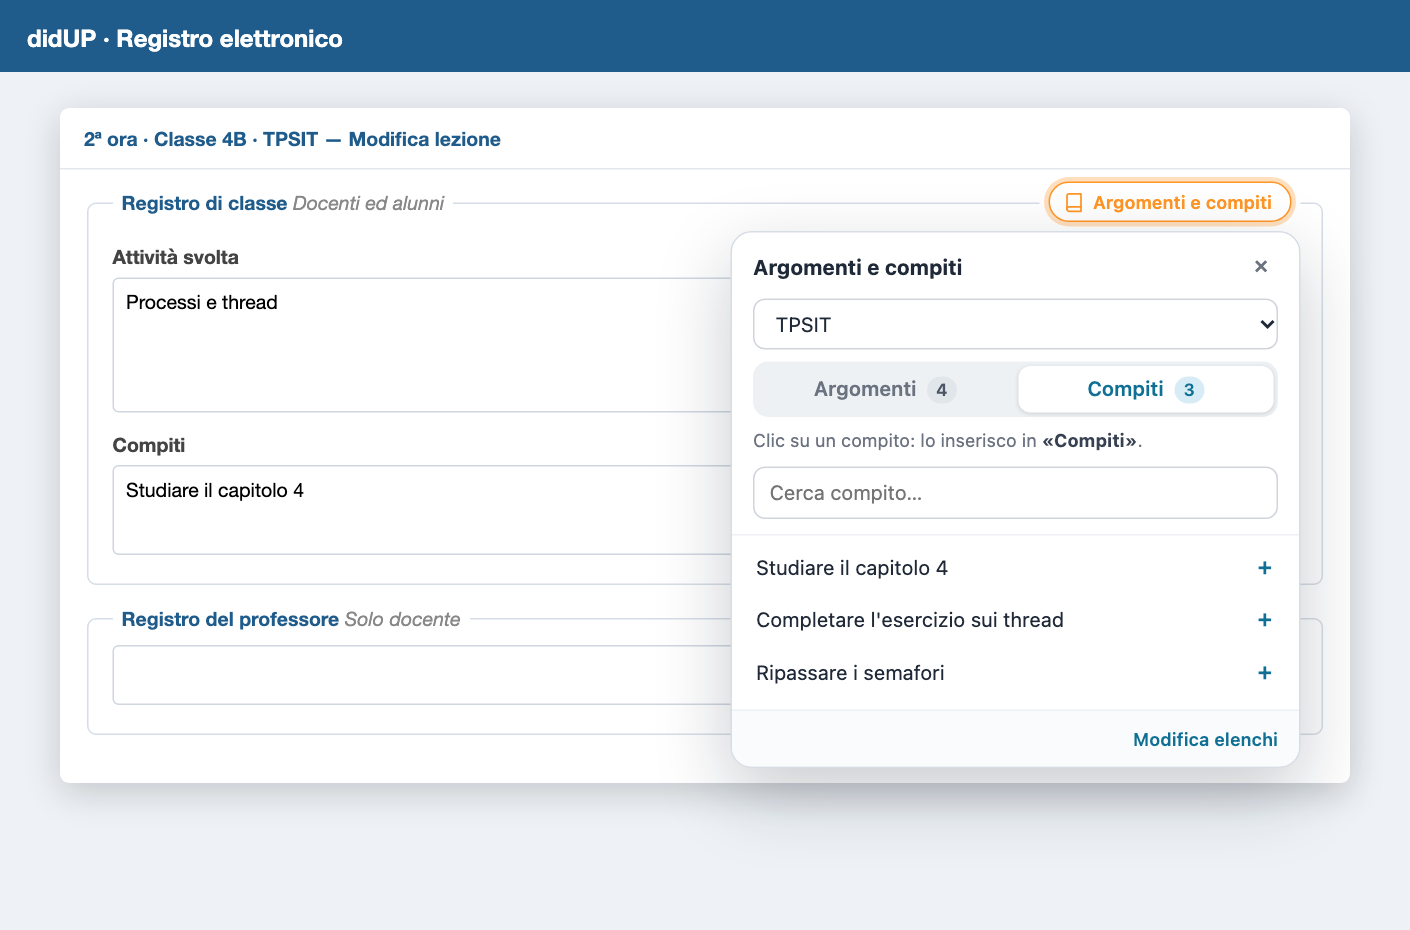
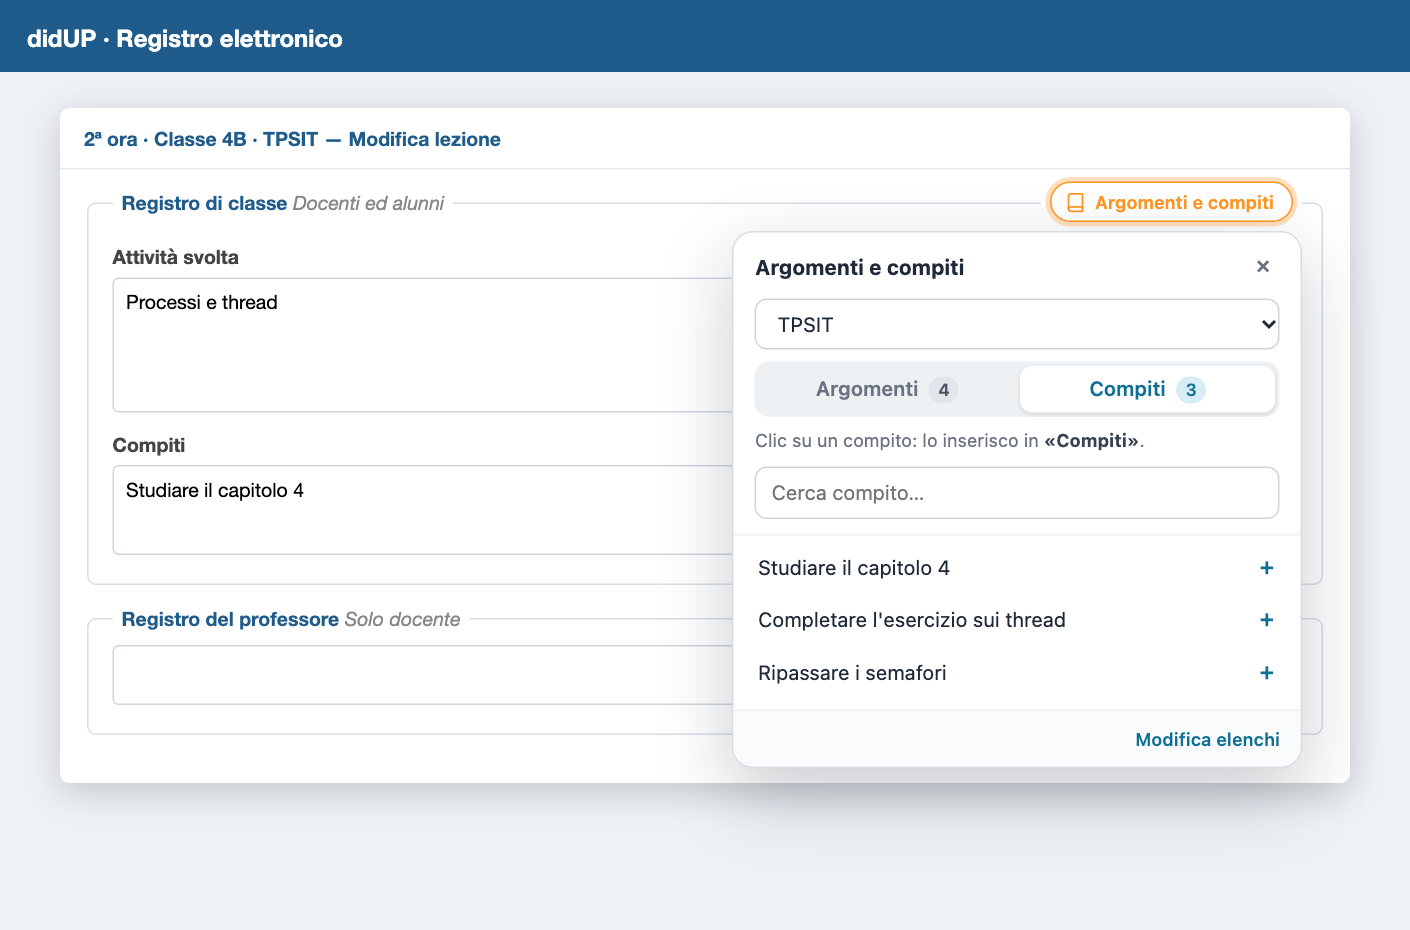
Fixed popup dismiss and Argomenti e Compiti visibility

diff --git a/argomenti.js b/argomenti.js
@@ -135,27 +135,44 @@
   }
 
   // A destra, centrato sulla riga del titolo (la legenda del riquadro).
+  // Il pulsante NON sta dentro il riquadro: in DidUP «.x-fieldset» ha
+  // overflow:hidden e la legenda è nella zona del bordo, quindi verrebbe
+  // tagliato via. Sta subito dopo il riquadro, nello stesso contenitore, in
+  // posizione assoluta: si misura dove finisce a 0,0 e si corregge.
   function positionButton(host) {
     const { title, fieldset } = host.__argo || {};
-    if (!title || !fieldset || !title.isConnected) return;
-    if (getComputedStyle(fieldset).position === 'static') fieldset.style.position = 'relative';
+    if (!fieldset || !fieldset.isConnected) {          // riquadro tolto da Ext: il pulsante non serve più
+      if (picker && picker.anchor === host) closePicker();
+      host.remove();
+      return;
+    }
+    if (!title || !title.isConnected) return;
     const legend = title.closest('legend, .x-fieldset-header') || title;
-    // Si misura dove finisce con top:0 e si corregge: l'origine di un elemento
-    // assoluto dentro un <fieldset> dipende da come il browser dispone la legenda.
+    const fr = fieldset.getBoundingClientRect();
+    const lr = legend.getBoundingClientRect();
+    if (fr.width === 0 && fr.height === 0) { host.style.visibility = 'hidden'; return; }   // scheda nascosta
+    host.style.visibility = '';
+    host.style.left = '0px';
     host.style.top = '0px';
     const zero = host.getBoundingClientRect();
-    const lr = legend.getBoundingClientRect();
-    host.style.top = `${Math.round(lr.top + lr.height / 2 - zero.height / 2 - zero.top)}px`;
+    const left = fr.right - 14 - zero.width - zero.left;
+    const top = lr.top + lr.height / 2 - zero.height / 2 - zero.top;
+    host.style.left = `${Math.round(left)}px`;
+    host.style.top = `${Math.round(Math.max(0, top))}px`;
     host.style.background = backgroundOf(fieldset);
   }
 
   function injectButton(title) {
     const fieldset = fieldsetOf(title) || title.parentElement;
-    const existing = fieldset.querySelector(`:scope > [${HOST_ATTR}="button"]`);
-    if (existing) { positionButton(existing); return existing; }
+    const next = fieldset.nextElementSibling;
+    if (next && next.getAttribute(HOST_ATTR) === 'button') {
+      next.__argo = { title, fieldset };      // Ext può aver ridisegnato il titolo
+      positionButton(next);
+      return next;
+    }
     const host = document.createElement('span');
     host.setAttribute(HOST_ATTR, 'button');
-    host.style.cssText = 'position:absolute;right:14px;top:0;z-index:1;display:inline-block;padding:0 6px;line-height:0;';
+    host.style.cssText = 'position:absolute;left:0;top:0;z-index:2;display:block;padding:0 6px;line-height:0;margin:0;';
     host.__argo = { title, fieldset };
     const root = host.attachShadow({ mode: 'open' });
     // Stesso stile dei pulsanti «Firma ora» / «Appello» (impostazioni → Pulsanti nel registro).
@@ -175,7 +192,8 @@
       if (picker && picker.anchor === host) closePicker();
       else openPicker(host, btn, fieldsetOf(title));
     });
-    fieldset.appendChild(host);
+    // (nessuno stile cambiato sui contenitori di Ext: la posizione si corregge misurando)
+    fieldset.after(host);
     positionButton(host);
     return host;
   }
@@ -549,7 +567,10 @@
     settings = s;
     if (!isArgoPortalUrl(location.href) && !isArgoDashboardUrl(location.href, s)) return;
     observer.observe(document.documentElement, { childList: true, subtree: true });
-    window.addEventListener('resize', () => document.querySelectorAll(`span[${HOST_ATTR}="button"]`).forEach(positionButton));
+    // Ext ridispone le finestre senza aggiungere nodi (es. ridimensionamento): si riallinea spesso, costa poco.
+    const realign = () => document.querySelectorAll(`span[${HOST_ATTR}="button"]`).forEach(positionButton);
+    window.addEventListener('resize', realign);
+    const realignTimer = setInterval(() => { if (!isCurrent()) clearInterval(realignTimer); else realign(); }, 700);
     scan();
   }).catch(err => console.warn('[Argo DidUP Booster] Argomenti:', err));
 })();

diff --git a/toolbar.js b/toolbar.js
@@ -179,11 +179,15 @@
   const panel = (() => {
     let host = null, root = null, pendingAsk = null, dismissed = false;
     const $ = sel => root.querySelector(sel);
+    // Visibilità con style.display: l'attributo hidden sull'host non basta,
+    // perché «:host { all: initial }» del pannello lo annulla.
+    const isVisible = () => Boolean(host && host.isConnected && host.style.display !== 'none');
+    const setVisible = on => { if (host) host.style.display = on ? '' : 'none'; };
 
     // Clic fuori dal pannello (e fuori dai pulsanti): si chiude. Solo i clic
     // veri dell'utente: quelli che fa l'estensione nel registro non contano.
     function onOutside(e) {
-      if (!e.isTrusted || !host || host.hidden) return;
+      if (!e.isTrusted || !isVisible()) return;
       const path = e.composedPath();
       if (path.includes(host) || (bar && path.includes(bar.host))) return;
       if (path.some(n => n && n.getAttribute && n.getAttribute(ATTR) === 'guide')) return;
@@ -270,16 +274,16 @@
       $('.askbox').hidden = true;
       $('.result').hidden = true;
       setState('running');
-      host.hidden = false;
+      setVisible(true);
       dismissed = false;
       position();
     }
 
-    function show() { if (host) { host.hidden = false; dismissed = false; position(); } }
+    function show() { if (host) { setVisible(true); dismissed = false; position(); } }
 
     function close() {
       if (!host) return;
-      host.hidden = true;
+      setVisible(false);
       dismissed = true;
       // Pannello chiuso durante una domanda: vale come «no».
       if (pendingAsk) pendingAsk(false);
@@ -335,7 +339,7 @@
       if (!dismissed || !result.ok) show();
     }
 
-    const isOpen = () => Boolean(host && host.isConnected && !host.hidden);
+    const isOpen = isVisible;
     return { open, show, close, addStep, ask, done, position, isOpen };
   })();
 

diff --git a/tests/mock/didup-mock.html b/tests/mock/didup-mock.html
@@ -21,6 +21,7 @@
   table.x-grid-item { width: 100%; border-collapse: collapse; } td.x-grid-cell { border: 1px solid #eee; padding: 4px 8px; }
   .base-registri-menu-button { display: inline-block; padding: 8px 12px; border: 1px solid #ccc; margin: 2px; cursor: pointer; }
   .x-btn-disabled { opacity: .4; }
+  .x-fieldset{display:block;position:relative;overflow:hidden} .x-fieldset-header{overflow:hidden} .x-fieldset-header-text{float:left}
   .x-message-box { position: fixed; top: 100px; left: 300px; background: #fff; border: 2px solid #c00; padding: 20px; }
 </style></head>
 <body>

diff --git a/CLAUDE.md b/CLAUDE.md
@@ -25,7 +25,7 @@ Il 5/11/2026 la cartella è stata spostata da `ArgoDidUP-Extension` a `argo_didu
 - **Pubblico.** Docenti italiani di qualunque scuola. Niente dati di una scuola specifica nel codice: l'estensione originale era scritta per l'ITT Buzzi (codice `SG18328`), poi è stata resa generica. Il codice `SG18328` (pubblico) si usa solo nei test.
 - **Nome: «Argo DidUP Booster»** (fino alla 2.6 si chiamava «ArgoDidUP Assistant» / «Argo Assistant»). Non rinominare la cartella: cambierebbe l'id dell'estensione e l'utente perderebbe le impostazioni.
 - **Identificatori interni.** Sono rimasti con il prefisso storico `argo-assistant` (`data-argo-assistant*`, eventi `argo-assistant:request:v4`, `dataset.argoAssistant*`, `__argoAssistant*`). Non si vedono e cambiarli lascerebbe doppioni nelle schede già aperte. Gli attributi nuovi della 1.2.0 usano `data-argo-booster-*` (`dataset.argoBooster*`).
-- **Versione attuale: 1.2.0.** La numerazione è ripartita da 1.0.0 con il cambio di nome (prima era 2.6). **Alzare `version` in `manifest.json` a ogni modifica del codice** (`MAJOR.MINOR.PATCH`): la ricarica automatica scatta quando la versione su disco è *diversa* da quella caricata, quindi va bene anche il passaggio 2.6 → 1.0.0. Il workflow di rilascio controlla che il tag corrisponda a questa versione.
+- **Versione attuale: 1.2.1.** La numerazione è ripartita da 1.0.0 con il cambio di nome (prima era 2.6). **Alzare `version` in `manifest.json` a ogni modifica del codice** (`MAJOR.MINOR.PATCH`): la ricarica automatica scatta quando la versione su disco è *diversa* da quella caricata, quindi va bene anche il passaggio 2.6 → 1.0.0. Il workflow di rilascio controlla che il tag corrisponda a questa versione.
 - **File tolti.** Stanno nella cartella sorella `/Applications/Google Chrome Extensions/argo_didup_booster - file rimossi/`:
   - `1.1.0/`: popup (`popup.html`, `popup.js`), `style.css`, `keepalive.js` e le immagini del popup;
   - `build-info.json` e `tools/` (hook git della sezione Informazioni, tolti nella 1.0.1);
@@ -37,17 +37,17 @@ Il 5/11/2026 la cartella è stata spostata da `ArgoDidUP-Extension` a `argo_didu
 
 | File | Ruolo |
 |---|---|
-| `manifest.json` | MV3, versione 1.2.0. Permessi `storage`, `alarms`, `activeTab`, `scripting`, `clipboardWrite`; host `https://*.portaleargo.it/*`, `https://eid.istruzione.it/*`. **Nessun popup** (dalla 1.1.0): il clic sull'icona arriva sempre a `onClicked`. Content script su portaleargo: `page-bridge.js` (MAIN) e poi `settings.js`, `content-common.js`, `login.js`, `sessione.js`, `argomenti.js`, `azioni.js`, `toolbar.js`. |
+| `manifest.json` | MV3, versione 1.2.1. Permessi `storage`, `alarms`, `activeTab`, `scripting`, `clipboardWrite`; host `https://*.portaleargo.it/*`, `https://eid.istruzione.it/*`. **Nessun popup** (dalla 1.1.0): il clic sull'icona arriva sempre a `onClicked`. Content script su portaleargo: `page-bridge.js` (MAIN) e poi `settings.js`, `content-common.js`, `login.js`, `sessione.js`, `argomenti.js`, `azioni.js`, `toolbar.js`. |
 | `settings.js` | Modulo condiviso da service worker, impostazioni e content script (variabili `var` di primo livello, così si può reiniettare). Contiene: `REPO_URL`, `DEFAULT_SETTINGS`, `SPID_PROVIDERS` (12 id), validazione ed import/export (`sanitizeSettings`: le chiavi booleane `autoLogin`, `ricordami`, `keepAliveEnabled`, `showFirma`, `showAppello`, `showArgomenti`, `guidaPulsanti`, `guidaArgomenti`), riconoscimento degli URL (`isArgoDashboardUrl` = percorso `/voti*`), `loginFlow`, `reloadIfStale()`, costanti del mantenimento (`KEEPALIVE_IDLE_MIN=10`, `KEEPALIVE_IDLE_MIN_FLOOR=3`, `KEEPALIVE_EXPIRED_IDLE_SEC=60`, `KEEPALIVE_EXPIRED_RETRY_MIN=5`), aspetto dei pulsanti (`BUTTON_POSITIONS`, `BUTTON_THEMES` con variabili CSS `--b-*` — il primo, `argo`, è il predefinito —, `buttonThemeCss()`, `BOOSTER_ICONS`, `BOOSTER_ACTIONS` con la chiave `setting` di ognuno, `enabledActions(settings)`, `BOOSTER_BUTTON_SIZE=34`, `boosterButtonsCss()`, `boosterPillCss()`, `boosterButtonHtml()`: gli stessi nel registro e nell'anteprima delle impostazioni). |
 | `background.js` | Service worker: badge "!" se manca il codice, clic sull'icona (`handleIconClick`), `goToRegistro()`, controllo della sessione nelle schede aperte (`probeDidupSession`), **mantenimento della sessione** (`chrome.alarms` ogni minuto → `keepAliveTick` → `sessionInPage` nel mondo MAIN → eventuale `chrome.tabs.reload`), iniezione degli script dopo un aggiornamento, `clearPopups()` (toglie i popup per scheda delle versioni ≤ 1.0), ripresa dopo la ricarica automatica. |
 | `sessione.js` | Content script (dalla 1.2.0): annota l'ora di caricamento della pagina (`<html data-argo-booster-loaded-at>`, non sovrascritta se lo script viene reiniettato) e dell'ultimo uso (`data-argo-booster-activity`: `pointerdown`, `keydown`, `wheel`, `touchstart`, `mousemove`, `input` solo se `isTrusted`, `hashchange`, `popstate`, scheda tornata visibile; al massimo una scrittura ogni 3 s). Gli attributi del DOM si leggono anche dal mondo MAIN, dove gira `sessionInPage`. Nessun dato su cosa si clicca o si scrive. |
-| `toolbar.js` | Pulsanti rotondi **Firma ora** / **Appello** nella barra in alto di DidUP (elemento `position:fixed` sopra la barra, non dentro il layout Ext; z-index 10000, sotto le finestre Ext). Solo quelli attivi (`enabledActions`); se nessuno è attivo la barra non si mostra; la barra si ricrea quando cambiano `showFirma`/`showAppello`. Posizione ricalcolata ogni 600 ms: a destra prima del gruppo aiuto/profilo (bordo sinistro dell'**immagine** dell'aiuto, distanza 12 px), al centro, a sinistra dopo il testo di `#intestazioneId`; in verticale **centrati sull'immagine dell'aiuto** (`img[src*=help]`), non sulla barra; se la barra è nascosta, in basso a destra. Pannello dei passi (`[data-argo-assistant="run"]`) con domanda Sì/No (chiusura, clic fuori o 2 minuti = no); **si chiude con un clic fuori** (solo eventi `isTrusted`; i clic sui pulsanti della barra e sulla guida non contano); se è stato chiuso mentre lavorava, a fine azione si riapre solo in caso di errore. Durante un'azione imposta `<html data-argo-booster-busy>` (il mantenimento non ricarica). **Guida della prima volta** (`guidaPulsanti`): quando la barra è visibile e ferma da ~2,4 s, la scheda è visibile e non ci sono maschere o finestre Ext; passi: barra, Firma ora, Appello (solo quelli attivi), impostazioni. Avviso «Sessione scaduta» con «Ricarica ora» (`location.reload()`) e «Più tardi». |
+| `toolbar.js` | Pulsanti rotondi **Firma ora** / **Appello** nella barra in alto di DidUP (elemento `position:fixed` sopra la barra, non dentro il layout Ext; z-index 10000, sotto le finestre Ext). Solo quelli attivi (`enabledActions`); se nessuno è attivo la barra non si mostra; la barra si ricrea quando cambiano `showFirma`/`showAppello`. Posizione ricalcolata ogni 600 ms: a destra prima del gruppo aiuto/profilo (bordo sinistro dell'**immagine** dell'aiuto, distanza 12 px), al centro, a sinistra dopo il testo di `#intestazioneId`; in verticale **centrati sull'immagine dell'aiuto** (`img[src*=help]`), non sulla barra; se la barra è nascosta, in basso a destra. Pannello dei passi (`[data-argo-assistant="run"]`) con domanda Sì/No (chiusura, clic fuori o 2 minuti = no); **si chiude con un clic fuori o con la ×** (visibilità con `host.style.display`, **non** con l'attributo `hidden`: lo annulla `:host { all: initial }` dello shadow DOM, ed è il difetto della 1.2.0 sul registro vero; solo eventi `isTrusted`; i clic sui pulsanti della barra e sulla guida non contano); se è stato chiuso mentre lavorava, a fine azione si riapre solo in caso di errore. Durante un'azione imposta `<html data-argo-booster-busy>` (il mantenimento non ricarica). **Guida della prima volta** (`guidaPulsanti`): quando la barra è visibile e ferma da ~2,4 s, la scheda è visibile e non ci sono maschere o finestre Ext; passi: barra, Firma ora, Appello (solo quelli attivi), impostazioni. Avviso «Sessione scaduta» con «Ricarica ora» (`location.reload()`) e «Più tardi». |
 | `options.html/js/css` | Impostazioni, salvate a ogni modifica: link **GitHub** in cima (e in fondo alla pagina), scuola e accesso (con l'interruttore «Ricordami»), sessione (solo on/off + stato dettagliato e scadenze osservate), **funzioni nel registro** (`#sec-funzioni`: interruttori `showFirma`, `showAppello`, `showArgomenti` con l'icona del pulsante vero; caselle `guidaPulsanti`, `guidaArgomenti`, aggiornate anche quando le spegne la pagina del registro), **aspetto dei pulsanti** (`#sec-pulsanti`: posizione, 6 stili, anteprima con i pulsanti veri in shadow DOM che mostra solo le funzioni attive), discipline con due elenchi ordinabili (schede "Argomenti" e "Compiti", `currentKind`), export/import JSON (`argo-didup-booster-impostazioni-AAAA-MM-GG.json`), URL avanzati. La **versione** (dal manifest) è nella barra in cima (`#info-version`). |
 | `page-bridge.js` | Script nel **mondo MAIN**: unico punto (oltre alle funzioni che il service worker esegue con `executeScript`) che usa gli oggetti di DidUP (Ext JS). Canale versionato `argo-assistant:request:v4` / `response:v4`. Funzioni: `session`, `ping`, `info`, `fields`, `insert`, `dashboardLessons`, `registroLessons` (righe con `index`, `docente`, `mia`, più `utente`), `utente`, `goHome`, `viewVisible`. Non cambiato nella 1.2.0. |
 | `content-common.js` | `callPageBridge()`, `waitForElement()`, `assistantToast` (shadow DOM; `actions`, `onDismiss`), `PAGE_BRIDGE_CHANNEL='v4'`, **`assistantGuide`** (dalla 1.2.0: `show(steps)` con `steps = [{ target: () => Element, title, text, round, action: { label, onClick } }]`; host `[data-argo-assistant="guide"]` a tutto schermo, z-index 2147483600; riquadro illuminato con `box-shadow: 0 0 0 200vmax rgba(15,23,42,.68)`; Avanti/Indietro/«Ho capito», «Salta la guida», Esc, frecce; blocca clic e tasti verso DidUP; `isOpen()`, `close()`). |
 | `login.js` | Pagine Argo: compila `#customer_code`, **spunta «Ricordami»** (`applyRicordami`: `#shared_remember_me.checked = true` senza cliccare, così non si apre la finestra informativa `#ssoModal`; mette anche `#spid_remember_me = "true"`) e preme `a.button-spid`; lo spunta anche quando l'utente preme SPID a mano (listener in cattura sul pulsante, prima dell'`onclick` di Argo); sceglie il profilo (`.selectable-identity`); chiude `loginFlow` quando il registro ha le credenziali; anti-ripetizione di 90 s con "Riprova". |
 | `eid.js` | `eid.istruzione.it/eid-gateway`: provider `a[href*="/sp/idps/spid/<id>/"]` (l'ordine in pagina cambia ogni volta) oppure CIE `a[href*="/sp/idps/cie/"]`. Agisce solo se `loginFlow.stage==='eid'`. |
-| `argomenti.js` | Pulsante "Argomenti e compiti" nella sezione "Registro di classe · Docenti ed alunni" della schermata di modifica lezione. Dalla 1.2.0 è **allineato a destra sulla riga del titolo**: l'host sta dentro il `fieldset` (`position:absolute; right:14px`, il fieldset diventa `position:relative` se era `static`), centrato sulla `legend` misurando e correggendo la posizione (l'origine di un elemento assoluto dentro un `fieldset` dipende dalla legenda), con lo sfondo del riquadro dietro (copre la linea del bordo). Il pannello si apre allineato al bordo destro del pulsante. Si toglie con `showArgomenti`. **Guida della prima volta** (`guidaArgomenti`) sul pulsante, 700 ms dopo che compare. Il pannello ha il menu delle discipline (solo i nomi) e le schede Argomenti/Compiti con i conteggi. Argomento → casella `desArgomento` ("Attività svolta"); compito → la casella `desCompiti`/`desCompiti2`/`desCompiti3` visibile (scheda aperta). Le caselle si riconoscono con `fields` dal campo collegato, **non dalla posizione**: la 2.5 le contava per posizione e prendeva anche la scheda "Compiti" nascosta, da cui "Compiti, Compiti" con uno che non funzionava. Inserimento tramite il ponte (`setValue` di Ext, separatore `\n`, massimo 500 caratteri). |
+| `argomenti.js` | Pulsante "Argomenti e compiti" nella sezione "Registro di classe · Docenti ed alunni" della schermata di modifica lezione. Dalla 1.2.0 è **allineato a destra sulla riga del titolo**. Dalla 1.2.1 l'host **non sta dentro il `fieldset`** ma subito dopo (`fieldset.after(host)`, stesso contenitore): in DidUP `.x-fieldset` ha `overflow:hidden` (voti-all.css) e la legenda sta nella zona del bordo, fuori dal padding box, quindi nella 1.2.0 il pulsante veniva tagliato via del tutto sul registro vero. È `position:absolute`; `positionButton` lo mette a 0,0, misura e corregge (bordo destro del riquadro − 14 px, centro della `legend`, mai sopra il contenitore), senza cambiare stili ai contenitori di Ext; si riallinea ogni 700 ms e al ridimensionamento; se il riquadro sparisce il pulsante viene tolto. Sfondo del riquadro dietro (copre la linea del bordo). Il pannello si apre allineato al bordo destro del pulsante. Si toglie con `showArgomenti`. **Guida della prima volta** (`guidaArgomenti`) sul pulsante, 700 ms dopo che compare. Il pannello ha il menu delle discipline (solo i nomi) e le schede Argomenti/Compiti con i conteggi. Argomento → casella `desArgomento` ("Attività svolta"); compito → la casella `desCompiti`/`desCompiti2`/`desCompiti3` visibile (scheda aperta). Le caselle si riconoscono con `fields` dal campo collegato, **non dalla posizione**: la 2.5 le contava per posizione e prendeva anche la scheda "Compiti" nascosta, da cui "Compiti, Compiti" con uno che non funzionava. Inserimento tramite il ponte (`setValue` di Ext, separatore `\n`, massimo 500 caratteri). |
 | `azioni.js` | Motore di **Firma ora** e **Appello** (`ArgoAzioni.esegui(action, onStep, { ask, docenteNome, now })`), avviato da `toolbar.js`. Riconosce la riga del docente (`assegnaRighe`, `sameName`). Non cambiato nella 1.2.0. |
 | `icon/` | `icon16/32/48/128.png` + `icon.svg`: l'icona originale (scuola bianca con bandierina su blu). L'utente preferisce questa: non cambiarla senza chiedere. |
 | `docs/img/` | Immagini del README: si rigenerano con `node tests/screenshots.mjs` (usa il DidUP finto con un fuso orario emulato in cui sono le 10). Dalla 1.2.0 anche `guida-pulsanti.png`, `guida-argomenti.png`, `impostazioni-funzioni.png`. |
@@ -208,6 +208,8 @@ Servono Node 20+ (provato con la 26) e Google Chrome. Tutto in `tests/`: profili
 - Google Chrome ignora `--load-extension`: l'estensione vera si carica con `--remote-debugging-pipe --enable-unsafe-extension-debugging` e CDP `Extensions.loadUnpacked` (`tests/lib/cdp-pipe.mjs`).
 - Per provare `chrome.runtime.reload()` serve la modalità sviluppatore: `enableDevMode()` da `chrome://extensions`.
 - I test con il finto `chrome.*` (`tests/mock/mock-chrome.js`, con `tabs.reload` registrato tra le chiamate; niente `storage.session`) girano nel mondo della pagina; `prepareMockExtension()` aggiunge il mock alle impostazioni. Il finto `executeScript` restituisce sempre `__executeScriptReply`.
+- **Visibilità nei test:** controllare quello che si vede (`getBoundingClientRect`, `elementFromPoint`), non attributi come `hidden`: nella 1.2.0 i test passavano mentre sul registro vero il pannello restava aperto. I DidUP finti includono le regole vere `.x-fieldset{position:relative;overflow:hidden}`, `.x-fieldset-header{overflow:hidden}`, `.x-fieldset-header-text{float:left}`.
+- Il CSS vero di DidUP si trova in `https://www.portaleargo.it/voti/classic.json` (elenco `css`): `classic/resources/voti-all.css` importa `voti-all_1.css` e `voti-all_2.css` (tema Ext), poi `resources/css/classic/{base,app,wsx,wsx-custom}.css`.
 - Nei test le guide della prima volta sono spente (`guidaPulsanti/guidaArgomenti: false`) tranne dove si provano: la guida blocca i clic veri sulla pagina.
 - Porte CDP fisse: 9337, 9338, 9341, 9343. In caso di crash `killOnExit` chiude Chrome.
 - `copyExtension()` esclude `tests`, `tools`, `docs`, `dist`, `.github`, i `.md` e i file di sistema.
@@ -252,6 +254,7 @@ Servono Node 20+ (provato con la 26) e Google Chrome. Tutto in `tests/`: profili
 | 1.0.1 | Versione in cima alle impostazioni; tolti commit e data (sezione Informazioni, `build-info.json`, `tools/` con gli hook git: spostati in `argo_didup_booster - file rimossi/`). Testo del codice scuola: «prima dell'accesso con SPID o CIE». README: installazione dallo zip dell'ultima release. |
 | 1.1.0 | **Firma**: nelle classi articolate e in compresenza firma la propria riga (docente collegato, nome e cognome, icona) e verifica nel registro le ore che la Home dà per firmate. **Sessione**: un solo meccanismo dal service worker (`chrome.alarms` ogni minuto, anche con la scheda in secondo piano) che rinnova il token OIDC prima della scadenza e fa il ping; tolti intervallo e "Ricarica la pagina". **Popup tolto**: l'icona porta ad Argo o alle impostazioni; Firma e Appello sono pulsanti rotondi nella barra di DidUP con scritta al passaggio del mouse, pannello dei passi, posizione e 6 stili con anteprima nelle impostazioni (stesso stile per «Argomenti e compiti»). Canale del ponte `v4`. Permesso `alarms`. |
 | 1.2.0 | **Sessione**: `login.js` spunta «Ricordami» (nuova impostazione `ricordami`, attiva) perché senza Argo rifiuta il rinnovo (`login_required`); il mantenimento ora **ricarica la pagina** dopo 10 minuti senza uso (conteggio di `sessione.js`, mai con una finestra di DidUP aperta), ricarica dopo 1 minuto se la sessione è scaduta, annota le scadenze e accorcia la soglia se il server chiude prima; tolti `signinSilent` dell'estensione, il ping e `relogin-tab`; testo «Mantieni attiva la sessione dopo l'accesso». **Pulsanti**: centrati sull'icona di aiuto (34 px), stile predefinito «Simil Argo» (bianco e arancione come l'aiuto) e primo nell'elenco, «Argomenti e compiti» a destra sulla riga del titolo, pannello dei passi che si chiude con un clic fuori. **Funzioni nel registro**: Firma ora, Appello e Argomenti e compiti si possono togliere. **Guide della prima volta** (sfondo scuro) per i pulsanti e per Argomenti e compiti, riattivabili dalle impostazioni. Link GitHub nelle impostazioni. **Rilascio automatico** con `.github/workflows/release.yml` (`argo_didup_booster-X.Y.Z.zip`). README e immagini aggiornati. |
+| 1.2.1 | Correzioni segnalate dall'utente sul registro vero: «Argomenti e compiti» non compariva (tagliato dall'`overflow:hidden` di `.x-fieldset`: ora il pulsante sta dopo il riquadro, non dentro); il pannello di Firma/Appello non si chiudeva né con la × né con un clic fuori (l'attributo `hidden` sull'host era annullato da `:host { all: initial }`: ora `style.display`). I DidUP finti dei test hanno le regole di `.x-fieldset` del CSS vero e i test controllano la visibilità reale (`elementFromPoint`, dimensioni), non gli attributi. |
 
 ## Punti aperti (non verificati sul registro vero)
 
